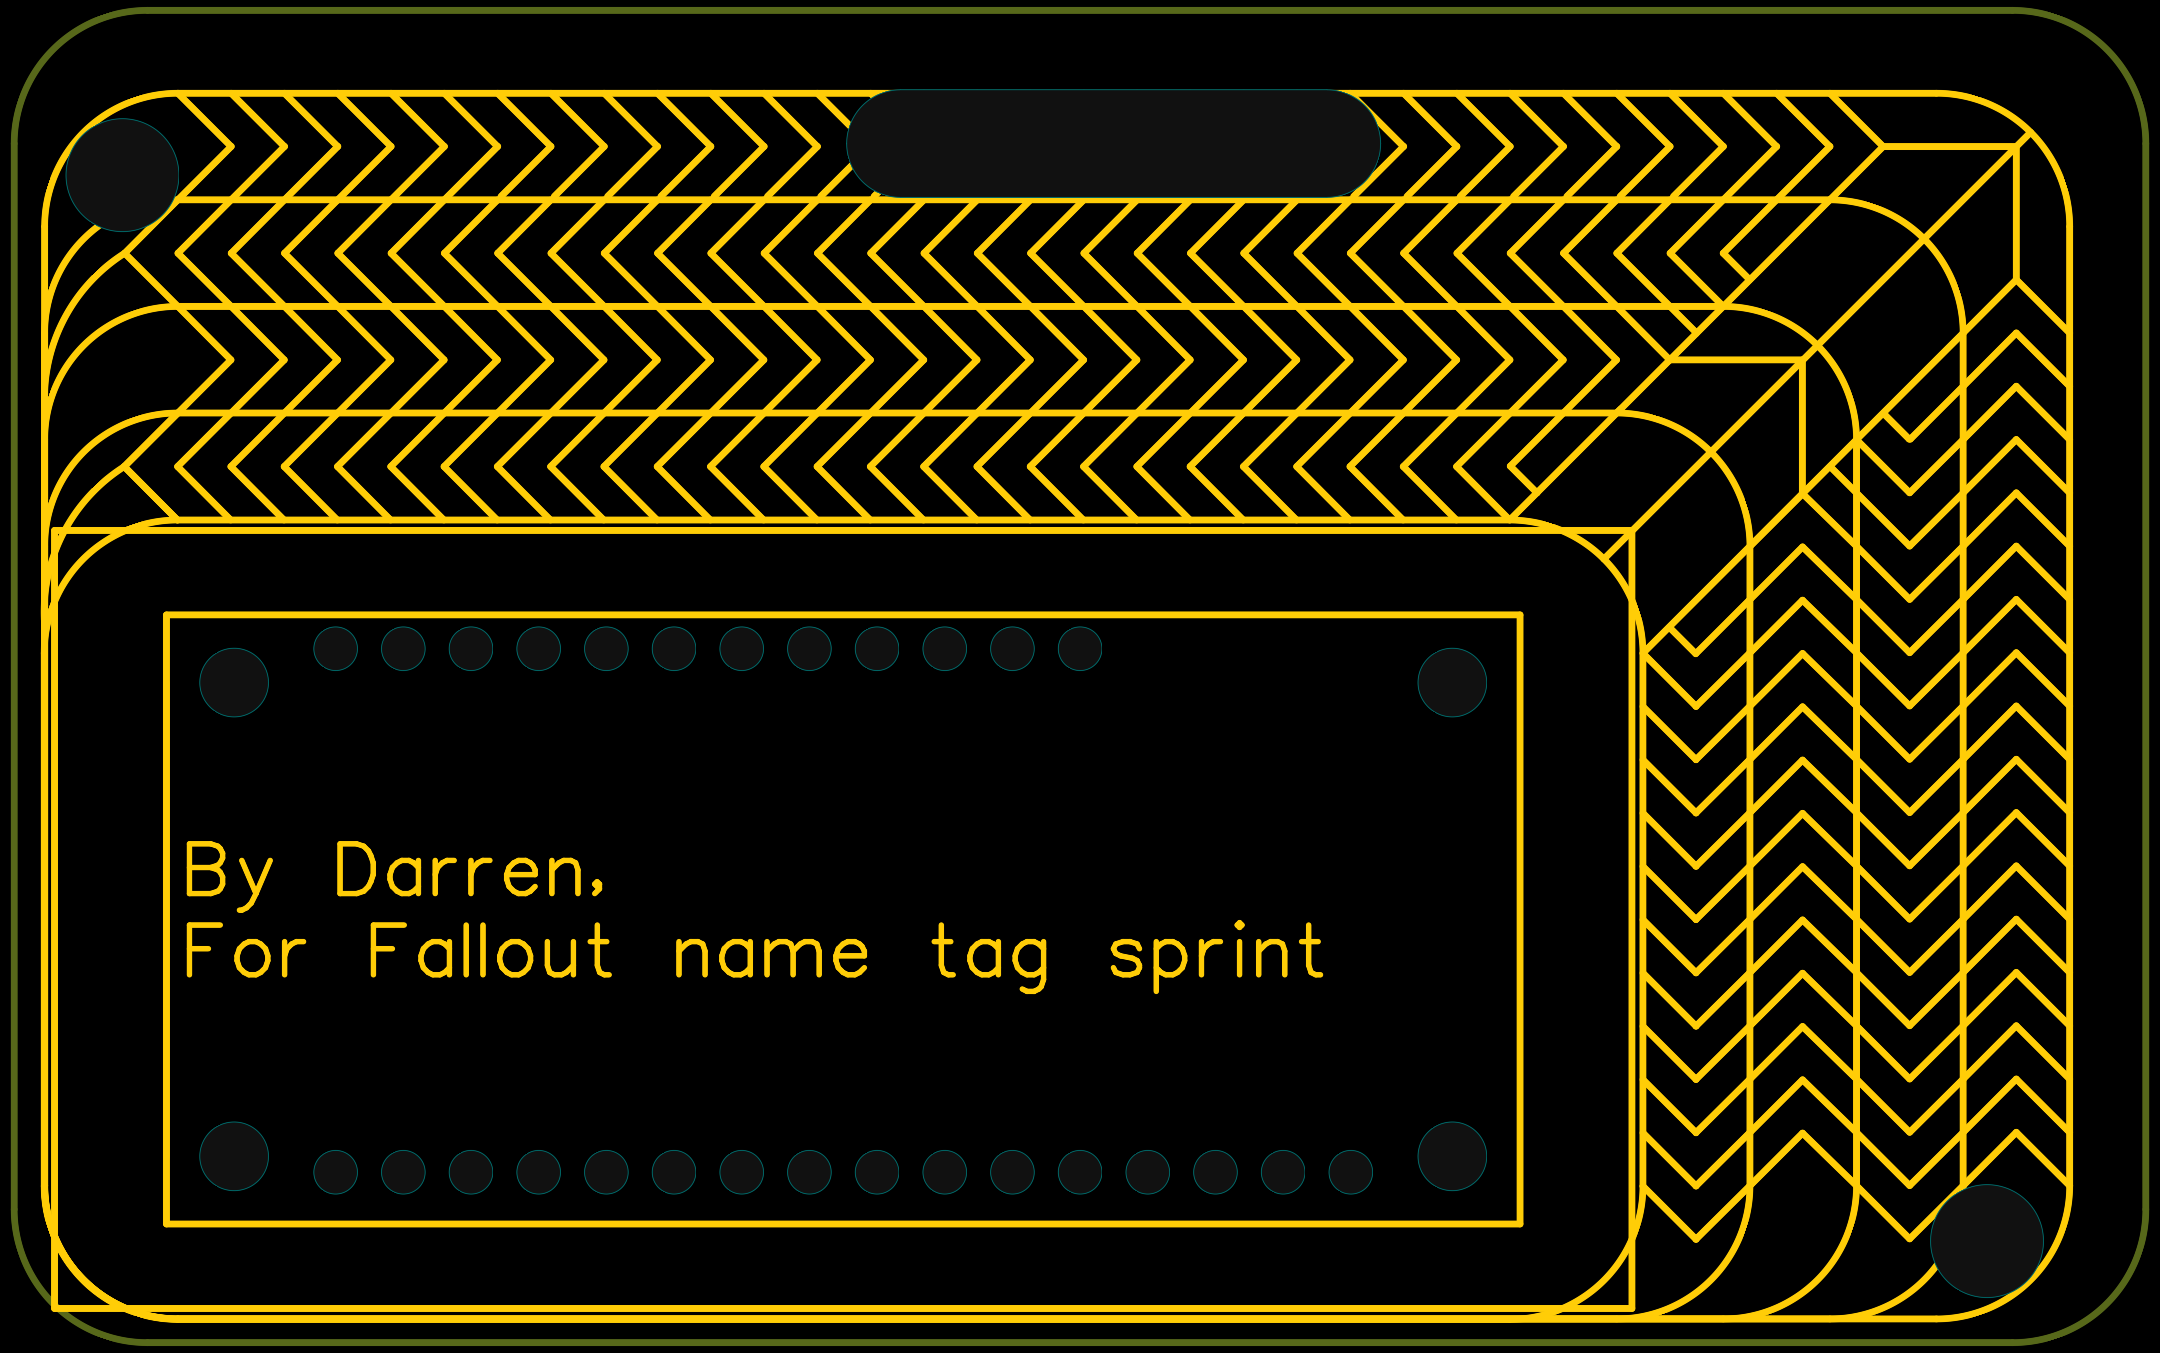
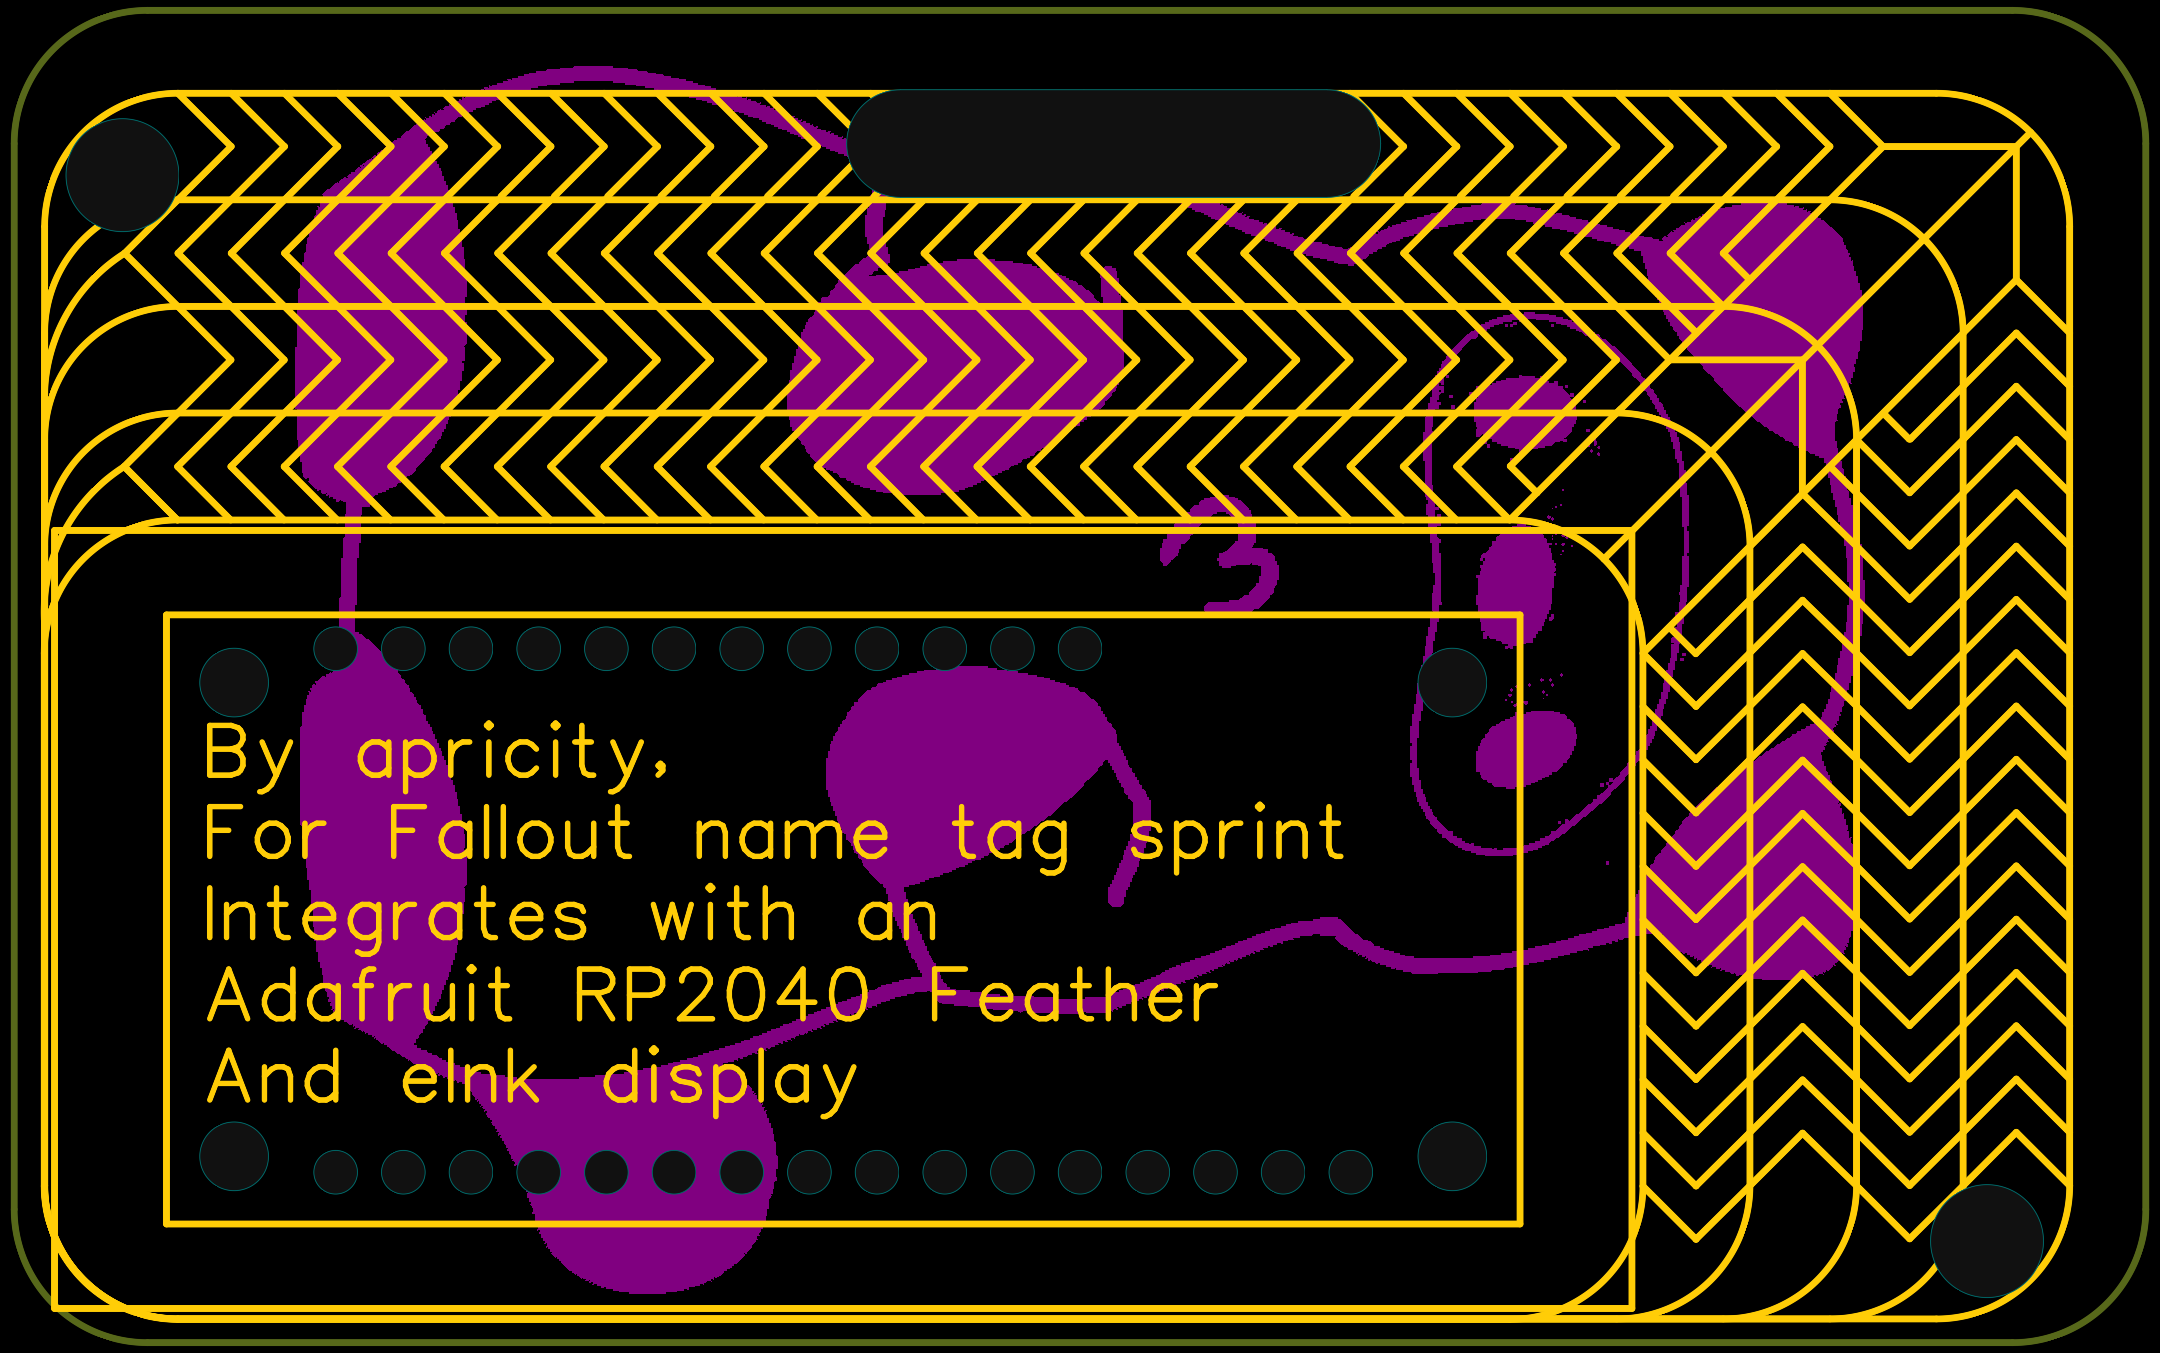
Added PCB 3D views, and wrote notes in README on project

diff --git a/README.md b/README.md
@@ -1,4 +1,16 @@
 # E-Ink-Fallout-Name-Tag
-A two-layer PCB designed to mount an E-Ink display powered by an Adafruit RP2040 Feather. Made by apricity as a name badge PCB for Hackclub Fallout.
+A two-layer PCB designed to mount an E-Ink display powered by an Adafruit RP2040 Feather. Made by apricity as a name badge for Hackclub Fallout.
 
+## Notes:
+Through bores are for connecting the Feather board, upon which is an FPC connector for the screen. Ideally, the board mounts on one side and the screen on the other to reduce the profile (since the microcontroller has a slightly smaller length + width footprint, it makes integrating the battery easier). Currently, a case is pending which will cover the back and contain the holder for the 3.7v 100ma lithium polymer battery (the board also functions via USB-C but that's a copout). Mounting hardware for the PCB to the case is planned to be via M2 componenets.
+
+Additionally, there is no current wiring schematic (might add rgb leds if extra time during Fallout? or afterwards) as the board is mainly just to mount and hold components (and of course for aesthetics). The battery and screen plug into the Adafruit RP2040 via STEMMA QT and FPC respectively.
+
+### PCB View
 ![](/assets/fallout_name_badge.png)
+
+### PCB 3D Top View
+![](/assets/fallout_name_badge_pcb_top_view.png)
+
+### PCB 3D Bottom View
+![](/assets/fallout_name_badge_pcb_bottom_view.png)